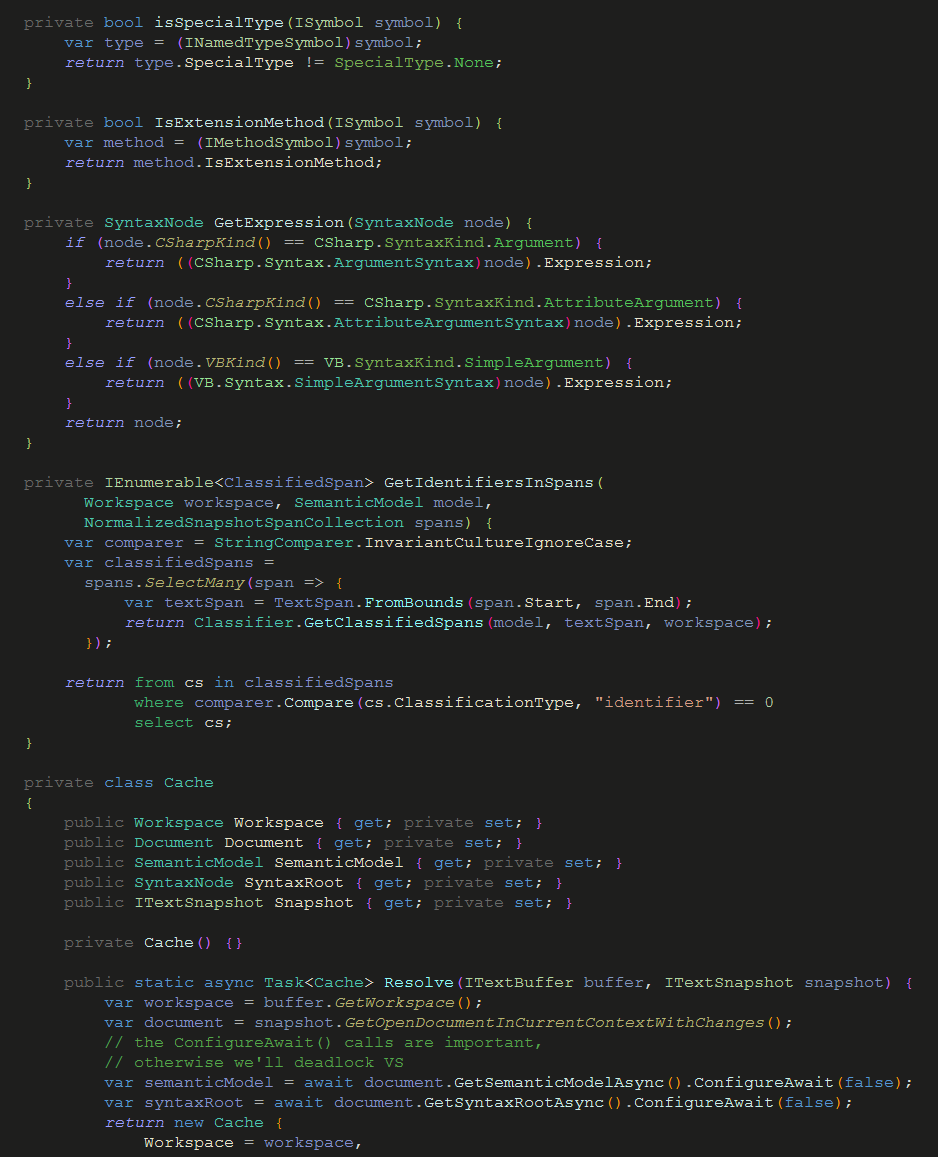
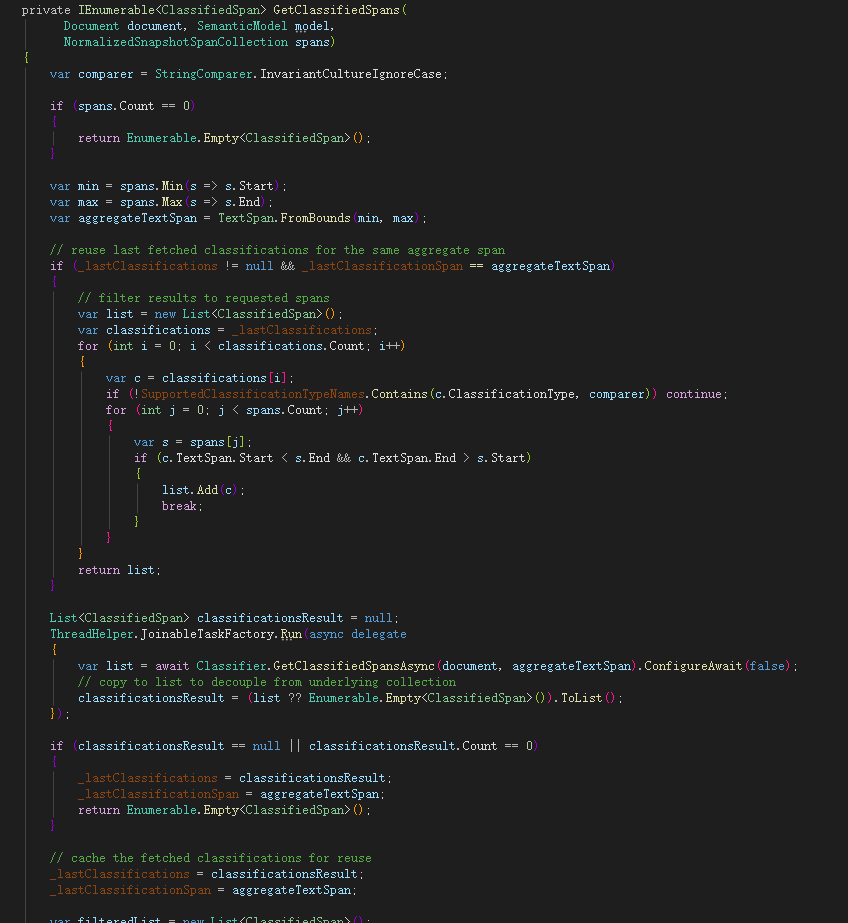
Merge pull request #3 from BRIZEIUM/fix_vs2026
Released via Polished Semantic Colorizer

Pull request: Released via Polished Semantic Colorizer

diff --git a/SemanticColorizer/SemanticColorizer.cs b/SemanticColorizer/SemanticColorizer.cs
@@ -4,6 +4,7 @@ using Microsoft.CodeAnalysis.Text;
 using Microsoft.VisualStudio.Shell;
 using Microsoft.VisualStudio.Text;
 using Microsoft.VisualStudio.Text.Classification;
+using Microsoft.CodeAnalysis.CSharp.Syntax;
 using Microsoft.VisualStudio.Text.Tagging;
 using Microsoft.VisualStudio.Utilities;
 using System;
@@ -50,7 +51,10 @@ namespace SonarColorizer
         private readonly IClassificationType _localType;
         private readonly IClassificationType _typeSpecialType;
         private readonly IClassificationType _eventType;
-        
+        private readonly IClassificationType _builtInMethodType;
+        private readonly IClassificationType _declarationMethodType;
+        private readonly IClassificationType _callMethodType;
+
         // Built in VS by default
         private readonly IClassificationType _builtInClassType;
         private readonly IClassificationType _builtInStructType;
@@ -115,6 +119,9 @@ namespace SonarColorizer
             _localType = registry.GetClassificationType(Constants.LocalFormat);
             _typeSpecialType = registry.GetClassificationType(Constants.TypeSpecialFormat);
             _eventType = registry.GetClassificationType(Constants.EventFormat);
+            _builtInMethodType = registry.GetClassificationType(Constants.BuiltInMethodFormat);
+            _declarationMethodType = registry.GetClassificationType(Constants.DeclarationMethodFormat);
+            _callMethodType = registry.GetClassificationType(Constants.CallMethodFormat);
 
             // Built in VS by default
             _builtInClassType = registry.GetClassificationType(Constants.BuiltInClassTypeFormat);
@@ -221,29 +228,38 @@ namespace SonarColorizer
                                 {
                                     yield return span.TextSpan.ToTagSpan(snapshot, _localFunctionType);
                                 }
-                                else if (methodSymbol.IsExtensionMethod)
-                                {
-                                    yield return span.TextSpan.ToTagSpan(snapshot, _extensionMethodType);
-                                }
-                                break;
-                            case NewClassificationTypeNames.ExtensionMethodName:
-                                yield return span.TextSpan.ToTagSpan(snapshot, _extensionMethodType);
                                 break;
                             case NewClassificationTypeNames.MethodName:
-                                //local function call
-                                if (methodSymbol.MethodKind == LocalMethodKind)
+                            case NewClassificationTypeNames.ExtensionMethodName:
+                                //declaration method
+                                if (IsDeclarationMethod(node))
                                 {
-                                    yield return span.TextSpan.ToTagSpan(snapshot, _localFunctionType);
+                                    yield return span.TextSpan.ToTagSpan(snapshot, _declarationMethodType);
+                                }
+                                //built-in method call
+                                else if (IsBuiltInMethod(methodSymbol))
+                                {
+                                    yield return span.TextSpan.ToTagSpan(snapshot, _builtInMethodType);
+                                }
+                                //method call
+                                else if (IsCallMethod(node))
+                                {
+                                    yield return span.TextSpan.ToTagSpan(snapshot, _callMethodType);
+                                }
+                                //local function call
+                                else if (methodSymbol.MethodKind == LocalMethodKind)
+                                {
+                                    yield return span.TextSpan.ToTagSpan(snapshot, _callMethodType);
                                 }
                                 //static method call
                                 else if (methodSymbol.MethodKind == MethodKind.Ordinary && methodSymbol.IsStatic)
                                 {
-                                    yield return span.TextSpan.ToTagSpan(snapshot, _staticMethodType);
+                                    yield return span.TextSpan.ToTagSpan(snapshot, _callMethodType);
                                 }
                                 //other method call
                                 else
                                 {
-                                    yield return span.TextSpan.ToTagSpan(snapshot, _normalMethodType);
+                                    yield return span.TextSpan.ToTagSpan(snapshot, _callMethodType);
                                 }
                                 break;
                         }
@@ -313,6 +329,63 @@ namespace SonarColorizer
                 node = syntaxRoot;
             }
             return GetExpression(node);
+        }
+
+        private static bool IsBuiltInMethod(IMethodSymbol symbol)
+        {
+            if (symbol == null)
+                return false;
+
+            var assemblyName = symbol.ContainingAssembly?.Name ?? string.Empty;
+            var ns = symbol.ContainingNamespace?.ToDisplayString() ?? string.Empty;
+
+            // Caso speciale: extension methods LINQ (First, Where, Select, ecc.)
+            if (symbol.IsExtensionMethod && symbol.ContainingType?.ToDisplayString() == "System.Linq.Enumerable")
+                return true;
+
+            if (assemblyName == "mscorlib" ||
+                assemblyName == "System.Runtime" ||
+                assemblyName == "System.Private.CoreLib" ||
+                assemblyName == "System.Core")
+            {
+                return true;
+            }
+
+            if (ns.StartsWith("System", StringComparison.Ordinal))
+                return true;
+
+            if (ns.StartsWith("Microsoft", StringComparison.Ordinal))
+                return true;
+
+            return false;
+        }
+
+        private bool IsDeclarationMethod(SyntaxNode node)
+        {
+            if (node.Language == LanguageNames.CSharp)
+                return node is Microsoft.CodeAnalysis.CSharp.Syntax.MethodDeclarationSyntax;
+
+            if (node.Language == LanguageNames.VisualBasic)
+                return node is Microsoft.CodeAnalysis.VisualBasic.Syntax.MethodStatementSyntax ||
+                       node is Microsoft.CodeAnalysis.VisualBasic.Syntax.MethodBlockSyntax;
+
+            return false;
+        }
+
+        private bool IsCallMethod(SyntaxNode node)
+        {
+            if (node.Language == LanguageNames.CSharp)
+                return node is CSharp.Syntax.InvocationExpressionSyntax;
+
+            if (node.Language == LanguageNames.VisualBasic)
+            {
+                if (node is VB.Syntax.IdentifierNameSyntax)
+                    return true;
+                if (node.Parent is VB.Syntax.InvocationExpressionSyntax)
+                    return true;
+            }
+
+            return false;
         }
 
         private bool IsSpecialType(ISymbol symbol)

diff --git a/SemanticColorizer/EditorFormats.cs b/SemanticColorizer/EditorFormats.cs
@@ -177,4 +177,43 @@ namespace SonarColorizer
             DisplayName = "Semantic Event";
         }
     }
+
+    [Export(typeof(EditorFormatDefinition))]
+    [ClassificationType(ClassificationTypeNames = Constants.BuiltInMethodFormat)]
+    [Name(Constants.BuiltInMethodFormat)]
+    [UserVisible(true)]
+    [Order(After = ClassificationTypeNames.Identifier)]
+    internal sealed class SemanticBuiltInMethodFormat : ClassificationFormatDefinition
+    {
+        public SemanticBuiltInMethodFormat()
+        {
+            DisplayName = "Semantic BuiltIn Method";
+        }
+    }
+
+    [Export(typeof(EditorFormatDefinition))]
+    [ClassificationType(ClassificationTypeNames = Constants.DeclarationMethodFormat)]
+    [Name(Constants.DeclarationMethodFormat)]
+    [UserVisible(true)]
+    [Order(After = ClassificationTypeNames.Identifier)]
+    internal sealed class SemanticDeclarationMethodFormat : ClassificationFormatDefinition
+    {
+        public SemanticDeclarationMethodFormat()
+        {
+            DisplayName = "Semantic Declaration Method";
+        }
+    }
+
+    [Export(typeof(EditorFormatDefinition))]
+    [ClassificationType(ClassificationTypeNames = Constants.CallMethodFormat)]
+    [Name(Constants.CallMethodFormat)]
+    [UserVisible(true)]
+    [Order(After = ClassificationTypeNames.Identifier)]
+    internal sealed class SemanticCallMethodFormat : ClassificationFormatDefinition
+    {
+        public SemanticCallMethodFormat()
+        {
+            DisplayName = "Semantic Call Method";
+        }
+    }
 }

diff --git a/SemanticColorizer/ClassificationDefinitions.cs b/SemanticColorizer/ClassificationDefinitions.cs
@@ -58,6 +58,18 @@ namespace SonarColorizer
         [Export(typeof(ClassificationTypeDefinition))]
         [Name(Constants.EventFormat)]
         internal static ClassificationTypeDefinition EventType;
+
+        [Export(typeof(ClassificationTypeDefinition))]
+        [Name(Constants.BuiltInMethodFormat)]
+        internal static ClassificationTypeDefinition BuiltInMethodType;
+
+        [Export(typeof(ClassificationTypeDefinition))]
+        [Name(Constants.DeclarationMethodFormat)]
+        internal static ClassificationTypeDefinition DeclarationMethodType;
+
+        [Export(typeof(ClassificationTypeDefinition))]
+        [Name(Constants.CallMethodFormat)]
+        internal static ClassificationTypeDefinition CallMethodType;
 #pragma warning restore CS0649
     }
 }

diff --git a/TestFile.cs b/TestFile.cs
@@ -49,4 +49,11 @@ namespace Test
 
         public int Run(string arg) => throw new NotImplementedException();
     }
+
+    internal class Testing
+    {
+        string Testing = "Test string";
+
+        string SplittedTesting = Testing.Substring(0, 4);
+    }
 }

diff --git a/SemanticColorizer/Properties/AssemblyInfo.cs b/SemanticColorizer/Properties/AssemblyInfo.cs
@@ -4,11 +4,11 @@ using System.Runtime.InteropServices;
 // General Information about an assembly is controlled through the following
 // set of attributes. Change these attribute values to modify the information
 // associated with an assembly.
-[assembly: AssemblyTitle("SonarColorizer")]
+[assembly: AssemblyTitle("PolishedSemanticColorizer")]
 [assembly: AssemblyDescription("")]
 [assembly: AssemblyConfiguration("")]
 [assembly: AssemblyCompany("LinkingMountains")]
-[assembly: AssemblyProduct("SonarColorizer")]
+[assembly: AssemblyProduct("PolishedSemanticColorizer")]
 [assembly: AssemblyCopyright("")]
 [assembly: AssemblyTrademark("")]
 [assembly: AssemblyCulture("")]
@@ -28,5 +28,5 @@ using System.Runtime.InteropServices;
 // You can specify all the values or you can default the Build and Revision Numbers
 // by using the '*' as shown below:
 // [assembly: AssemblyVersion("1.0.*")]
-[assembly: AssemblyVersion("1.4.1.*")]
+[assembly: AssemblyVersion("1.4.3.*")]
 [assembly: AssemblyFileVersion("1.0.0.0")]

diff --git a/SemanticColorizer/Constants.cs b/SemanticColorizer/Constants.cs
@@ -17,6 +17,9 @@ namespace SonarColorizer
         public const String LocalFormat = "s.semantic-colorizer.local";
         public const String TypeSpecialFormat = "s.semantic-colorizer.type-special";
         public const String EventFormat = "s.semantic-colorizer.event";
+        public const String BuiltInMethodFormat = "s.semantic-colorizer.builtin-method";
+        public const String DeclarationMethodFormat = "s.semantic-colorizer.declaration-method";
+        public const String CallMethodFormat = "s.semantic-colorizer.call-method";
 
         // Built in VS by default
         public const String BuiltInClassTypeFormat = "class name";

diff --git a/readme.md b/readme.md
@@ -1,41 +1,47 @@
-# Semantic Syntax Colorizer
+# Polished Semantic Syntax Colorizer
 
-[![Visual Studio | Marketplace](https://img.shields.io/badge/Visual%20Studio%20|%20Marketplace-1.4.1-green.svg?colorB=00a84b&logo=data%3Aimage%2Fpng%3Bbase64%2CiVBORw0KGgoAAAANSUhEUgAAABwAAAAcCAYAAAByDd%2BUAAAAGXRFWHRTb2Z0d2FyZQBBZG9iZSBJbWFnZVJlYWR5ccllPAAAAgtJREFUeNq01s9LlEEcx3F3i1gUIkEsWJEiiZR2A0tJXIKuS5cW9GyE%2FgEZCOGC4MEfGB1ClD20Fy%2B6RURQQR4NikBBg06FINopjdZSWNun9%2BA8MD3OjM%2BzPg68Ls%2FM83yY7zwzzxNxHKcq5JbBLeSwcqBXBIboJtac%2FfYdeaQRc8eEHfbD0bdlDOFSJKSSpvAc9YeM%2BxQNIawDz3yEiXZKDYzjesCwdrzAWZ%2Fjy6L2UWTwDbvo97lmbVh3grVFceOgpuMpzljCWpW3MVCgKOl5zdTv4g2uaPquyjI2GMr2GdummorAkqHvBublRnZbUoY1Gu7Jowd7xlVkmlPKlMU6Fj1l%2BIsBWcavlnJNyHJfwG%2FbGqqBk%2BhGSTPY9JA93FfW9zK2TYEnPROOYQ418ixU%2B6s1BSriHgp%2B95F340eUteiVDzS1L0gHCdMFqk28MFuWfvE2LgQ9lkwzFFvlteVtFK0Lr1B3lMA%2FOIeXSPi4%2FzbeoqnSwIvyIE56rn%2FAuOEZ1%2FAOne5OsyZ6toWuzaJWvvIPLON%2Byo9tXLOX%2F9uH04bOkjxnvefogCV0B4%2BxaQvMaTo2cMdyeD88pCplW2ACBeXiezT7%2BDxlK%2FlaqA%2FowxOcDvAfM3SUwEoNBwhcCuOfJotRn2NPhPmbOGaZ2S%2FMIBX2j%2FCEJ2gVI2g5jh9h1yN8RC%2FqvP3%2FBBgAP9DoY%2BErIbwAAAAASUVORK5CYII%3D)](https://marketplace.visualstudio.com/items?itemName=LinkingMountains.SonarColorizer)
+[![Visual Studio | Marketplace](https://img.shields.io/badge/Visual%20Studio%20|%20Marketplace-1.4.3-green.svg?colorB=00a84b&logo=data%3Aimage%2Fpng%3Bbase64%2CiVBORw0KGgoAAAANSUhEUgAAABwAAAAcCAYAAAByDd%2BUAAAAGXRFWHRTb2Z0d2FyZQBBZG9iZSBJbWFnZVJlYWR5ccllPAAAAgtJREFUeNq01s9LlEEcx3F3i1gUIkEsWJEiiZR2A0tJXIKuS5cW9GyE%2FgEZCOGC4MEfGB1ClD20Fy%2B6RURQQR4NikBBg06FINopjdZSWNun9%2BA8MD3OjM%2BzPg68Ls%2FM83yY7zwzzxNxHKcq5JbBLeSwcqBXBIboJtac%2FfYdeaQRc8eEHfbD0bdlDOFSJKSSpvAc9YeM%2BxQNIawDz3yEiXZKDYzjesCwdrzAWZ%2Fjy6L2UWTwDbvo97lmbVh3grVFceOgpuMpzljCWpW3MVCgKOl5zdTv4g2uaPquyjI2GMr2GdummorAkqHvBublRnZbUoY1Gu7Jowd7xlVkmlPKlMU6Fj1l%2BIsBWcavlnJNyHJfwG%2FbGqqBk%2BhGSTPY9JA93FfW9zK2TYEnPROOYQ418ixU%2B6s1BSriHgp%2B95F340eUteiVDzS1L0gHCdMFqk28MFuWfvE2LgQ9lkwzFFvlteVtFK0Lr1B3lMA%2FOIeXSPi4%2FzbeoqnSwIvyIE56rn%2FAuOEZ1%2FAOne5OsyZ6toWuzaJWvvIPLON%2Byo9tXLOX%2F9uH04bOkjxnvefogCV0B4%2BxaQvMaTo2cMdyeD88pCplW2ACBeXiezT7%2BDxlK%2FlaqA%2FowxOcDvAfM3SUwEoNBwhcCuOfJotRn2NPhPmbOGaZ2S%2FMIBX2j%2FCEJ2gVI2g5jh9h1yN8RC%2FqvP3%2FBBgAP9DoY%2BErIbwAAAAASUVORK5CYII%3D)](https://marketplace.visualstudio.com/items?itemName=LinkingMountains.PolishedSemanticColorizer)
 
-A Visual Studio 2017, 2019, 2022, and 2026 editor extension for semantic syntax highlighting.
+## Overview
 
-It uses the Roslyn APIs to highlight the following syntax types in distinctive colors to make them easily recognizable.
+**Polished Semantic Colorizer** is a maintained fork of the archived Semantic Colorizer extension for Visual Studio. It retains all original Roslyn-based semantic highlighting features.
 
-Sonar Colorizer is a fork of the original (archived) Semantic Colorizer project.
+## Key Improvements
 
-To change the colors use the regular Visual Studio "Font and Colors" Options. Look for `Semantic *` in the "Display items".
+This fork resolves a known stability issue from the original project:
+- Fixed an issue that caused VS2022 to hang during "Preparing Solution"
 
-* Class fields
-* Enum fields
-* Static methods
-* Regular methods
-* Constructors
-* Type parameters
-* Parameters
-* Namespaces
-* Class properties
-* Local variables
-* Special types (built in)
+## Compatibility
 
-The code is fairly simple, but it is not currently written using the Async APIs in Roslyn.
+Supports Visual Studio 2017 and newer (2019 / 2022 / 2026). Visual Studio 2015 is no longer supported.
 
-This extension works for Visual Studio 2017 and all successors.
+## Highlight Coverage
 
-You might want to combine this extension with:
-* Viasfora - color access modifiers, control flow
-* Build in `User Types - *` Display Items - to change color for regular types `class`, `enum`, `delegate` etc.
+This extension provides semantic highlighting for the following code elements:
+- Class fields & Enum fields
+- Static methods & Regular instance methods
+- Constructors
+- Type parameters & Method parameters
+- Namespaces & Class properties
+- Local variables & Special built-in types
+- Local methods, Declaration methods & Built-in methods
+
+## Customization
+
+All semantic colors can be customized in Visual Studio via **Tools > Options > Environment > Fonts and Colors**. Look for display items starting with `Semantic *`.
+
+## Recommended Companion Extensions
+
+These extensions pair well with this tool for enhanced code coloring:
+- **Viasfora**: Adds color highlighting for access modifiers and control flow keywords
+- Visual Studio built-in **User Types** items: Customize display colors for classes, enums, delegates and other custom user types
 
 ## License
 
-Apache License Version 2.0
-See LICENSE file for more details
+Licensed under Apache License 2.0. See the included `LICENSE` file for details.
 
-## Contribute
+## Contribute & Feedback
 
-If you like this project give it a star.
-If you don't like it or found a bug, please write an issue.
+- Star the repository if you find this extension useful
+- Report bugs or suggestions via issues
+- Pull requests are welcome for further improvements